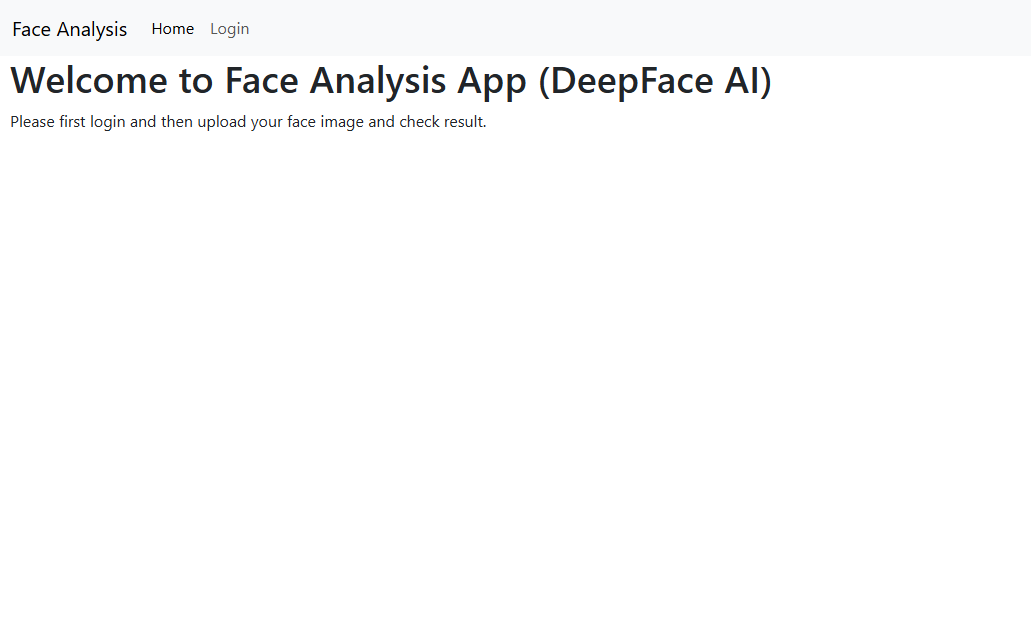
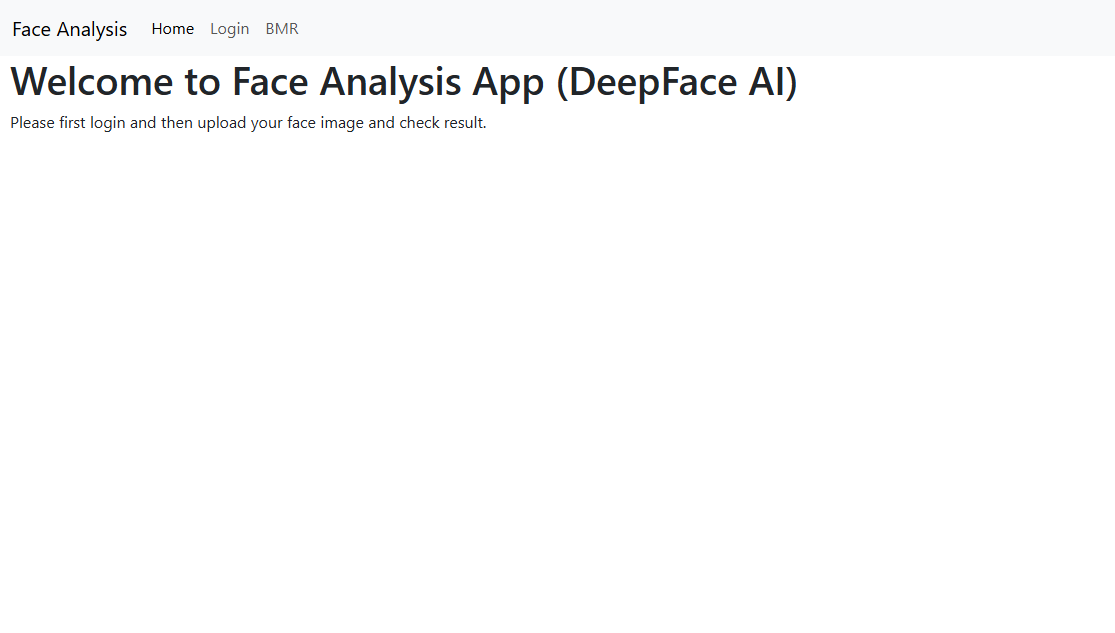
Add BMR page to App

Changed region(s): [[0.0, 0.09, 0.7449, 0.2101], [0.0, 0.03, 0.2793, 0.06]]

diff --git a/4.Flask/4.2_Flask_Upload_file/flask_app/templates/bmr.html b/4.Flask/4.2_Flask_Upload_file/flask_app/templates/bmr.html
@@ -30,8 +30,31 @@
     </div>
     </nav>
 
-    <h2 style="margin-left: 10px;">Estimated Age: {{ age }}</h2>
-    
+    <form method="post" style="width: 50%; margin: 10px;">
+        <h2>Please Enter your information: </h2>
+        <div class="input-group mb-3">
+            <span class="input-group-text" id="inputGroup-sizing-default">Weight [KG] : </span>
+            <input type="number" class="form-control" aria-label="Sizing example input" aria-describedby="inputGroup-sizing-default" name="weight">
+        </div>
+        <div class="input-group mb-3">
+            <span class="input-group-text" id="inputGroup-sizing-default">Height [CM] : </span>
+            <input type="number" class="form-control" aria-label="Sizing example input" aria-describedby="inputGroup-sizing-default" name="height">
+        </div>
+        <div class="input-group mb-3">
+            <span class="input-group-text" id="inputGroup-sizing-default">Age [yrs]: </span>
+            <input type="number" class="form-control" aria-label="Sizing example input" aria-describedby="inputGroup-sizing-default" name="age">
+        </div>
+        <select class="form-select form-select-lg mb-3" aria-label="Large select example" name="gender">
+            <option selected>Select Your Gender</option>
+            <option value="Male">Male</option>
+            <option value="Female">Female</option>
+        </select>
+        <button type="submit" class="btn btn-primary">Calculate</button>
+    </form>
+
+    {% if alert %}
+    <h1>Your BMR is : {{bmr}} </h1>
+    {% endif %}
 
     <script src="https://cdn.jsdelivr.net/npm/@popperjs/core@2.11.8/dist/umd/popper.min.js" integrity="sha384-I7E8VVD/ismYTF4hNIPjVp/Zjvgyol6VFvRkX/vR+Vc4jQkC+hVqc2pM8ODewa9r" crossorigin="anonymous"></script>
     <script src="https://cdn.jsdelivr.net/npm/bootstrap@5.3.8/dist/js/bootstrap.min.js" integrity="sha384-G/EV+4j2dNv+tEPo3++6LCgdCROaejBqfUeNjuKAiuXbjrxilcCdDz6ZAVfHWe1Y" crossorigin="anonymous"></script>

diff --git a/4.Flask/4.2_Flask_Upload_file/flask_app/templates/index.html b/4.Flask/4.2_Flask_Upload_file/flask_app/templates/index.html
@@ -22,6 +22,9 @@
             <li class="nav-item">
             <a class="nav-link" href="/login">Login</a>
             </li>
+            <li class="nav-item">
+            <a class="nav-link" href="/bmr">BMR</a>
+            </li>
         </ul>
         </div>
     </div>

diff --git a/4.Flask/4.2_Flask_Upload_file/flask_app/templates/login.html b/4.Flask/4.2_Flask_Upload_file/flask_app/templates/login.html
@@ -22,6 +22,9 @@
             <li class="nav-item">
             <a class="nav-link" href="/login">Login</a>
             </li>
+            <li class="nav-item">
+            <a class="nav-link" href="/bmr">BMR</a>
+            </li>
         </ul>
         </div>
     </div>

diff --git a/4.Flask/4.2_Flask_Upload_file/flask_app/templates/upload.html b/4.Flask/4.2_Flask_Upload_file/flask_app/templates/upload.html
@@ -22,6 +22,9 @@
             <li class="nav-item">
             <a class="nav-link" href="/login">Login</a>
             </li>
+            <li class="nav-item">
+            <a class="nav-link" href="/bmr">BMR</a>
+            </li>
         </ul>
         </div>
     </div>

diff --git a/4.Flask/4.2_Flask_Upload_file/flask_app/app.py b/4.Flask/4.2_Flask_Upload_file/flask_app/app.py
@@ -68,3 +68,21 @@ def result():
         age = info["age"]
 
     return render_template("result.html", age=age)
+
+# BMR
+@app.route("/bmr", methods=["GET", "POST"])
+def bmr():
+    if request.method == "POST":
+        weight = float(request.form.get("weight"))
+        height = float(request.form.get("height"))
+        age = float(request.form.get("age"))
+        gender = request.form.get("gender")
+
+        if gender == "Male":
+            bmr = (10 * weight) + (6.25 * height) - (5 * age) + 5
+        elif gender == "Female":
+            bmr = (10 * weight) + (6.25 * height) - (5 * age) - 161
+
+        return render_template("bmr.html", alert=True, bmr=bmr)
+    
+    return render_template("bmr.html")
